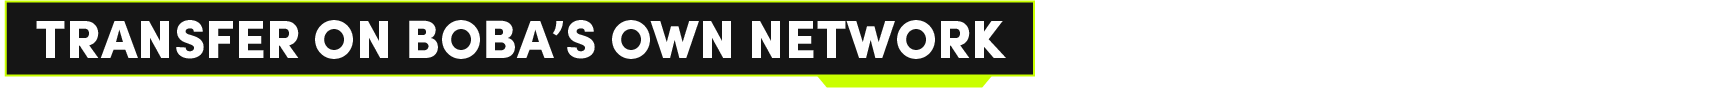
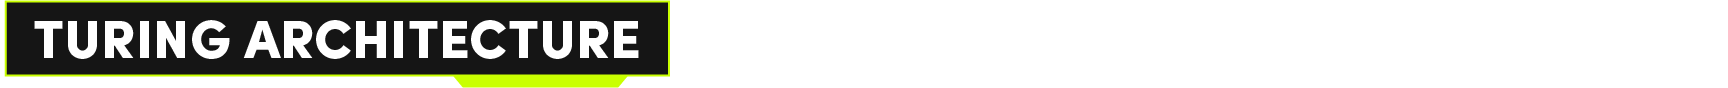
GITBOOK-210: No subject

Changed region(s): [[0.0312, 0.0, 0.625, 1.0]]

diff --git a/boba_documentation/hc/implementation.md b/boba_documentation/hc/implementation.md
@@ -2,6 +2,8 @@
 description: Learn how to use Turing hybrid compute
 ---
 
+# Implementation
+
 Hybrid Compute (formerly "Turing") is a system for interacting with the outside world from within solidity smart contracts. All data returned from external APIs, such as social networking or weather data are deposited into a public data-storage contract on Ethereum Mainnet. This extra data allows replicas, verifiers, and fraud-detectors to reproduce and validate the Boba L2 blockchain, block by block.
 
 Using Hybrid Compute is as easy as calling specific functions from inside your smart contract. For example, to obtain a random number for minting NFTs, call:
@@ -32,7 +34,11 @@ To obtain **Twitter** or **Spotify** data you could set up a system like this:
 
 ```
 
-## Feature Highlight 1: Using Turing to mint an NFT with 256 random attributes in a single transaction
+###
+
+<figure><img src="../../.gitbook/assets/Artboard 1 (3).png" alt=""><figcaption></figcaption></figure>
+
+### Feature Highlight 1: Using Turing to mint an NFT with 256 random attributes in a single transaction
 
 With Turing, your ERC721 contract can generate a cryptographically strong 256 bit random number immediately prior to the execution flow moving to the `mint` function. This is an _atomic_ transaction - everything takes places within one transaction:
 
@@ -83,15 +89,15 @@ Then, register and fund your Turing Credit account:
 
 ```
 
-**All done**! Each Turing request costs 0.01 BOBA, so 1 BOBA is enough for 100 Turing requests. Have fun. You can find [example code and an ERC721 that uses Turing here](./test/006_NFT_random.ts) and a [fully-featured Turing-ready NFT system here](../../boba_community/turing-monsters/README.md).
+**All done**! Each Turing request costs 0.01 BOBA, so 1 BOBA is enough for 100 Turing requests. Have fun. You can find [example code and an ERC721 that uses Turing here](test/006\_NFT\_random.ts) and a [fully-featured Turing-ready NFT system here](../../boba\_community/turing-monsters/).
 
-## Feature Highlight 2: Using Turing to access APIs from within your solidity smart contract
+### Feature Highlight 2: Using Turing to access APIs from within your solidity smart contract
 
 You can use Turing as a pipe to any other computer, such as APIs for social networks, weather and location data, or market data. Please keep in mind however that Turing differs sharply from established providers of market trading data, in particular, since **Turing does not provide a decentralized mechanism to verify the accuracy of the data**. **You should therefore not use Turing for production trading or lending use, but should use proven, decentralized data oracles**.
 
 **Data/Oracle best practices** Regardless of your specific use case, minimally, you will need to secure your pipe/contract against data outliers, temporary lack of data, and malicious attempts to distort the data. For example, you could average over multiple on-chain oracles and/or off-chain sources - in this case, the role of Turing could be to 'augment' or separately estimate the reliability and timeliness of on-chain oracles.
 
-**Note - Boba does not provide endpoints for you** You are responsible for setting up an endpoint that Turing can access - read on for more information and example code. Assume you have an API access key to a provider of weather data. First, set up a server or endpoint that queries this API, and stores and analyzes the data, if needed. Your own server/endpoint contains your secrets and API access keys. Next, add a simple interface to allow Turing to interact with your server. Turing calls to your server  contain the address of the calling contract and there are multiple ways to control access to your server in very granular manner, if desired. See `.packages/boba/turing/AWS_code/turing_oracle.py` for a copy-paste example for querying data APIs via a wrapper at AWS Lambda:
+**Note - Boba does not provide endpoints for you** You are responsible for setting up an endpoint that Turing can access - read on for more information and example code. Assume you have an API access key to a provider of weather data. First, set up a server or endpoint that queries this API, and stores and analyzes the data, if needed. Your own server/endpoint contains your secrets and API access keys. Next, add a simple interface to allow Turing to interact with your server. Turing calls to your server contain the address of the calling contract and there are multiple ways to control access to your server in very granular manner, if desired. See `.packages/boba/turing/AWS_code/turing_oracle.py` for a copy-paste example for querying data APIs via a wrapper at AWS Lambda:
 
 ```python
 /AWS_code/turing_oracle.py
@@ -120,20 +126,25 @@ You should lock down your off-chain endpoint to only accept queries from your sm
 
 ```
 
-## AWS and Google Cloud Function Examples
 
-Your external API will need to accept calls from the L2Geth and return data in a way that can be understood by the L2Geth. Examples are provided in `./packages/boba/turing/AWS_code`. Specific instructions for setting up AWS lambda endpoints are [here](./AWS_code/AWS_lambda_setup.md) - note that _all_ APIs can be used, not just AWS Lambda endpoints.
 
-## Important Properties of Hybrid Compute
+<figure><img src="../../.gitbook/assets/Artboard 2 (2).png" alt=""><figcaption></figcaption></figure>
+
+Your external API will need to accept calls from the L2Geth and return data in a way that can be understood by the L2Geth. Examples are provided in `./packages/boba/turing/AWS_code`. Specific instructions for setting up AWS lambda endpoints are [here](AWS\_code/AWS\_lambda\_setup.md) - note that _all_ APIs can be used, not just AWS Lambda endpoints.
+
+
+
+<figure><img src="../../.gitbook/assets/Artboard-3.png" alt=""><figcaption></figcaption></figure>
 
 * Only one Turing call per execution
 * There is **1200 ms timeout** on API responses. Please make sure that your API responds promptly. If you are using AWS, note that some of their services take several seconds to spin up from a 'coldstart', resulting in persistent failure of your first call to your endpoint.
 
-### One Turing call per Transaction
+#### One Turing call per Transaction
+
 At present, you can only have one Turing call per transaction, i.e. a Turing call cannot call other contracts that invoke Turing as well. Transactions that result in multiple Turing calls in the call stack will revert.
 
+#### TuringTxV2() - V2
 
-### TuringTxV2() - V2
 The new HybridCompute version allows endpoints to return more complex data structures or just larger payloads in general.
 
 * Maximum allowed length of the modified calldata is 65508 (selector + req + response).
@@ -168,14 +179,13 @@ bytes memory byteRes = turingHelper.TuringTxV2(_turingUri, encRequest);
 (string[] memory yourArray, string memory aStringVal, bytes memory someBytes) = abi.decode(byteRes, (string[], string, bytes));
 ```
 
+#### TuringTx() - V1
 
-### TuringTx() - V1
 The legacy version of Hybrid Compute had a smaller maximum response size, which didn't allow you to return larger or more complex payloads from an API such as arrays.
 
 * Strings returned from external endpoints in V1 are limited to 322 characters (`5*64+2=322`)
 
-
-#### String length limit
+**String length limit**
 
 The string length cap of 322 is large enough to return, for example, four `uint256` from the external api:
 
@@ -206,13 +216,17 @@ You can return anything you want - e.g. numbers, strings, ... - and this informa
 
 ```
 
-## Turing Architecture
+
+
+<figure><img src="../../.gitbook/assets/Artboard-4.png" alt=""><figcaption></figcaption></figure>
 
 The modified Turing L2Geth, `L2TGeth`, monitors calldata for particular Keccak methodIDs of functions such as `GetRandom(uint32 rType, uint256 _random)` and `GetResponse(uint32 rType, string memory _url, bytes memory _payload)`. Upon finding such methodIDs in the execution flow, at any level, L2TGeth parses the calldata for additional information, such as external URLs, and uses that information to either directly prepare a response (e.g. generate a random number) or to call an external API. After new information is generated (or has returned from the external API), L2TGeth then runs the function with updated inputs, such that the new information flows back to the caller (via overloaded variables and a system for conditionally bypassing `requires`). Put simply, L2TGeth intercepts function calls, adds new information to the inputs, and then runs the function with the updated inputs.
 
 In general, this system would lead to disagreement about the correct state of the underlying blockchain. For example, if replicas and verifiers simply ingested the transactions and re-executed them, then every blockchain would differ, destroying the entire system. Thus, a new data field called `Turing` (aka `turing`, `l1Turing` or `L1Turing` depending on context) has been added to the L2Geth `transactions`,`messages`, `receipts`, `blocks`, `evm.contexts`, and various `codecs` and `encoders/decoders`. This new data field is understood by `core-utils` as well as the `data-translation-layer` and the `batch-submitter`, and allows Turing data to be pushed into, and recovered from, the `CanonicalTransactionChain` (CTC). This extra information allows all verifiers and replicas to enter a new **replay** mode, where instead of generating new random numbers (or calling off-chain for new data), they use the Turing data stored in the CTC (or in the L2 blocks as part of the transaction metadata) to generate a faithful copy of the main Boba L2 blockchain. Thus, the overall system works as before, with all the information needed for restoring the Boba L2 and, just as critically, for public fraud detection, being publicly deposited into Ethereum.
 
-## Quickstart for Turing Developers
+
+
+<figure><img src="../../.gitbook/assets/Artboard-5.png" alt=""><figcaption></figcaption></figure>
 
 Open a terminal window and from the top level:
 
@@ -319,9 +333,11 @@ $ hardhat --network boba_local test
 ✨  Done in 6.67s.
 ```
 
-## Technical Appendix: Implementation Details
 
-### Step 1: Invoking Turing for inside a Smart contract
+
+<figure><img src="../../.gitbook/assets/Artboard 6 (1).png" alt=""><figcaption></figcaption></figure>
+
+#### Step 1: Invoking Turing for inside a Smart contract
 
 A Turing cycle starts with specific function calls inside solidity smart contracts deployed on Boba:
 
@@ -551,7 +567,7 @@ func bobaTuringCall(input []byte, caller common.Address) hexutil.Bytes {
 
 ```
 
-### Step 2: Flow of Turing data out of the evm.context
+#### Step 2: Flow of Turing data out of the evm.context
 
 `l2geth/core/state_processor.go:core.ApplyTransaction` moves the Turing data from `Context.Turing` into the `transaction.meta.L1Turing` byte array:
 
@@ -592,7 +608,7 @@ func (w *worker) commit(uncles []*types.Header, interval func(), start time.Time
 
 At this point, the data are circulated to various places throughout the system as part of the block/transaction data. Notably, calls to the L2 for block/transaction data now return a new field, `l1Turing` to all callers.
 
-### Step 3: Batch submitter Turing data injection
+#### Step 3: Batch submitter Turing data injection
 
 The batch submitter receives an new block/transaction from `L2TGeth`, obtains the raw call string (`rawTransaction`) and the Turing data (`l1Turing`), and if there was a Turing event (as judged from the length of the Turing string), the modified `batch-submitter` appends those data to the `rawTransaction` string. From the perspective of the CTC, it is receiving its normal batch payload.
 
@@ -627,11 +643,11 @@ private async _getL2BatchElement(blockNumber: number): Promise<BatchElement> {
 
 ```
 
-### Step 4: Writing to the CTC
+#### Step 4: Writing to the CTC
 
 The batch-submitter writes the data to the CTC as usual. **The CTC does not know about Turing** - that was one of the goals, so we do not have to modify the L1 contracts.
 
-### Step 5: DTL Turing data extraction; Reading from the CTC
+#### Step 5: DTL Turing data extraction; Reading from the CTC
 
 The DTL reads from the CTC and unpacks the modified `rawTransaction` (which is now called `sequencerTransaction`). The DTL uses a Turing length metadata field in the `sequencerTransaction` string. Critically, the DTL writes a slightly modified `TransactionEntry` into its database, which has a new field called `turing`. When the database is queried, it thus returns the Turing data in addition to all the usual fields.
 
@@ -674,7 +690,7 @@ The DTL reads from the CTC and unpacks the modified `rawTransaction` (which is n
 
 ```
 
-### Step 6: Verifier data ingestion
+#### Step 6: Verifier data ingestion
 
 The Verifier receives all the usual data from the DTL, but, if there was a Turing call, there is now an additional data field containing the rewritten callData as a HexString. The Turing data are obtained from incoming `json` data and are written into the transaction metadata, `meta.L1Turing = turing`:
 

diff --git a/boba_documentation/developer/hybrid_compute.md b/boba_documentation/developer/hybrid_compute.md
@@ -8,33 +8,22 @@ Hybrid Compute is a system for interacting with the outside world from within so
 
 Hybrid Compute is a **pipe** between (**1**) Boba's Geth (aka sequencer), which takes transactions, advances the state, and forms blocks, and (**2**) your server. To use this pipe, all you need is a smart contract on Boba that makes Hybrid Compute calls and an external server that accepts these calls and returns data in a format that can be understood by the EVM. This is not hard to do and we provide many examples which will allow you to quickly build a working Hybrid Compute system.
 
-
-
 <figure><img src="../../.gitbook/assets/Artboard 1.png" alt=""><figcaption></figcaption></figure>
 
 A typical Hybrid Compute system for gaming or Web3 social networking<>blockchain interoperability has four parts:
 
-1. A contract that uses Hybrid Compute, such as by calling `bytes memory encResponse = myHelper.TuringTxV2(serverURL, encRequest);`
-In some places you may find `myHelper.TuringTx(...)` which is just the previous version (still working) that doesn't support more complex return values such as arrays.
-
+1. A contract that uses Hybrid Compute, such as by calling `bytes memory encResponse = myHelper.TuringTxV2(serverURL, encRequest);` In some places you may find `myHelper.TuringTx(...)` which is just the previous version (still working) that doesn't support more complex return values such as arrays.
 2. A second contract, the `TuringHelper`, which serves as your standardized door to Hybrid Compute (formerly "Turing").
-
 3. Some BOBA. Each Hybrid Compute call costs 0.01 BOBA, equivalent to about 1 cent at the moment. This fee covers the cost of writing all input calldata and responses from your servers to Ethereum Mainnet.
 4. A server which accepts POST requests from Boba's Geth and returns data to it in the right format.
 
-
-
-<figure><img src="../../.gitbook/assets/Artboard 2 (2).png" alt=""><figcaption></figcaption></figure>
+<figure><img src="../../.gitbook/assets/Artboard 2 (1).png" alt=""><figcaption></figcaption></figure>
 
 Hybrid Compute is a general purpose pipe between computers and this pipe does not have a native feature set (e.g. storage, cron jobs, cryptographic operations, gaming engines, blockchain history lookups, ...). Rather, _it's up to you_ to deploy servers or endpoints to perform those functions and then expose the right functionality/data to external callers. For many situations, serverless endpoints such as AWS Lambda or Google Cloud Services allow you to build complex logic in just a few lines of code, so if you have not done that before, it's surprisingly easy and we provide many examples for you to use and copy.
 
-
-
-<figure><img src="../../.gitbook/assets/Artboard 3 (3).png" alt=""><figcaption></figcaption></figure>
+<figure><img src="../../.gitbook/assets/Artboard 3.png" alt=""><figcaption></figcaption></figure>
 
 Hybrid Compute is general-purpose pipe between computers and not an Oracle. Decentralized Oracles were invented to solve a very specific problem, which is _decentralized trustless approximation of the truth_ (e.g. temperature in NYC, the price of BTC/USD, ...) for later consumption on-chain (e.g. by a DEX or lending protocol). A pipe between computers such as Hybrid Compute has no direct bearing on questions of data authenticity, timeliness, and trust, but rather, those must be tackled by the smart contract deployer and data provider(s) in whatever way is most suitable to their specific use case, industry, and application. To reiterate, Hybrid Compute is a pipe, not an Oracle.
-
-
 
 <figure><img src="../../.gitbook/assets/Artboard 4 (3).png" alt=""><figcaption></figcaption></figure>
 
@@ -42,21 +31,15 @@ On chain Oracles typically operate in a **push** manner, meaning that they updat
 
 A system like Hybrid Compute is typically configured in the opposite manner, as a **pull** system, where nothing happens until a smart contract needs data or compute. In that case, the external API services the Hybrid Compute call `just in time` during the EVM execution flow. This means that systems that use Hybrid Compute have zero baseline gas consumption and provide compute or data only when needed.
 
-
-
-<figure><img src="../../.gitbook/assets/Artboard 5.png" alt=""><figcaption></figcaption></figure>
+<figure><img src="../../.gitbook/assets/Artboard 5 (2).png" alt=""><figcaption></figcaption></figure>
 
 Hybrid Compute is invoked when needed during the normal EVM execution flow, and therefore, transactions are atomic. Notably, computations later in the EVM execution flow can operate on responses from your off-chain servers all in one transaction.
-
-
 
 <figure><img src="../../.gitbook/assets/Artboard 6 (2).png" alt=""><figcaption></figcaption></figure>
 
 As noted, Hybrid Compute is not an Oracle. However, Hybrid Compute writes all initial calldata and server responses to Ethereum Mainnet, and therefore, external parties can see those inputs and outputs. In theory, this many allow third parties to detect fraud or even challenge Hybrid Compute calls, but such functionality remains to be developed.
 
-
-
-<figure><img src="../../.gitbook/assets/Artboard 7 (1).png" alt=""><figcaption></figcaption></figure>
+<figure><img src="../../.gitbook/assets/Artboard 7.png" alt=""><figcaption></figcaption></figure>
 
 Since developers (i.e. **you**) control all of their keys and Hybrid Compute is just a pipe, there are no special security considerations when using Hybrid Compute. Notably - _we do not provide data or compute endpoints for you to query_ - you have to build, secure, and run those.
 
@@ -67,9 +50,7 @@ Hybrid Compute has two security/control features:
 
 The first mechanism prevents unauthorized use of your on-chain resources and the second one prevents unauthorized use of off-chain resources.
 
-
-
-<figure><img src="../../.gitbook/assets/Artboard 8.png" alt=""><figcaption></figcaption></figure>
+<figure><img src="../../.gitbook/assets/Artboard 8 (1).png" alt=""><figcaption></figcaption></figure>
 
 Here are five fully worked out examples for you to build on:
 

diff --git a/boba_documentation/user/001_how-to-bridge.md b/boba_documentation/user/001_how-to-bridge.md
@@ -6,15 +6,15 @@ description: Setup a wallet, buy & transfer cryptocurrencies, use the different 
 
 [https://gateway.boba.network/](https://gateway.boba.network)
 
-<figure><img src="../../.gitbook/assets/Artboard 1 (2).png" alt=""><figcaption></figcaption></figure>
+<figure><img src="../../.gitbook/assets/Artboard 1 (1).png" alt=""><figcaption></figcaption></figure>
 
 {% embed url="https://drive.google.com/file/d/1ybrKdXxlRNrZOkPO4fLc9bWQ56gRZXfQ/view?usp=sharing" %}
 
-<figure><img src="../../.gitbook/assets/Artboard 2 (1).png" alt=""><figcaption></figcaption></figure>
+<figure><img src="../../.gitbook/assets/Artboard 2 (3).png" alt=""><figcaption></figcaption></figure>
 
 {% embed url="https://drive.google.com/file/d/1TxuP6myVAhtPsEQ0wfmS2HdI0E9rjT3b/view" %}
 
-<figure><img src="../../.gitbook/assets/Artboard 3.png" alt=""><figcaption></figcaption></figure>
+<figure><img src="../../.gitbook/assets/Artboard 3 (3).png" alt=""><figcaption></figcaption></figure>
 
 **Before getting started, make sure you have enough ETH in your Metamask wallet to approve and send transactions (we recommend 0.05 ETH).**
 
@@ -24,11 +24,11 @@ description: Setup a wallet, buy & transfer cryptocurrencies, use the different 
 
 {% embed url="https://drive.google.com/file/d/1Lf-X1xwP9M-ZZM6HiQ1qRhV-0yaBKitA/view?usp=share_link" %}
 
-<figure><img src="../../.gitbook/assets/Artboard 4 (2).png" alt=""><figcaption></figcaption></figure>
+<figure><img src="../../.gitbook/assets/Artboard 4.png" alt=""><figcaption></figcaption></figure>
 
 {% embed url="https://drive.google.com/file/d/1IyXQNTFLEfJ7Sfyqh7iqMM6tWis26Jg3/view?usp=share_link" %}
 
-<figure><img src="../../.gitbook/assets/Artboard 5 (2).png" alt=""><figcaption></figcaption></figure>
+<figure><img src="../../.gitbook/assets/Artboard 5 (3).png" alt=""><figcaption></figcaption></figure>
 
 {% embed url="https://drive.google.com/file/d/1TSyk7T_-TqhXywcbeO41dJZgCsrPIzGq/view?usp=share_link" %}
 
@@ -36,10 +36,10 @@ description: Setup a wallet, buy & transfer cryptocurrencies, use the different 
 
 {% embed url="https://drive.google.com/file/d/1HeHlr9FsBAQwW5YE0ho8g_GygRWWI9jU/view?usp=share_link" %}
 
-<figure><img src="../../.gitbook/assets/Artboard 7 (2).png" alt=""><figcaption></figcaption></figure>
+<figure><img src="../../.gitbook/assets/Artboard 7 (1).png" alt=""><figcaption></figcaption></figure>
 
 {% embed url="https://drive.google.com/file/d/1KxHc3ymjErviLBV1bASzzHs8xsLMIDcd/view?usp=share_link" %}
 
-<figure><img src="../../.gitbook/assets/Artboard 8 (1).png" alt=""><figcaption></figcaption></figure>
+<figure><img src="../../.gitbook/assets/Artboard 8.png" alt=""><figcaption></figcaption></figure>
 
 {% embed url="https://drive.google.com/file/d/1GHMpC0h_BwEpW-BlgQG5JMHvsLG58bgH/view?usp=sharing" %}

diff --git a/faq.md b/faq.md
@@ -4,7 +4,7 @@ description: Frequently asked questions
 
 # FAQ
 
-<figure><img src=".gitbook/assets/Artboard 1 (1).png" alt=""><figcaption></figcaption></figure>
+<figure><img src=".gitbook/assets/Artboard 1 (2).png" alt=""><figcaption></figcaption></figure>
 
 [Boba](https://boba.network) is a compute-focused L2. Fundamentally, Ethereum is a distributed computer. We believe that L2s can play a unique role in augmenting the base _compute_ capabilities of the Ethereum ecosystem. You can learn more about Turing hybrid compute [here](broken-reference).
 
@@ -143,7 +143,7 @@ Unfortunately no, not at the moment.
 
 See Q2 of Transactions
 
-<figure><img src=".gitbook/assets/Artboard 4.png" alt=""><figcaption></figcaption></figure>
+<figure><img src=".gitbook/assets/Artboard 4 (4).png" alt=""><figcaption></figcaption></figure>
 
 #### Q1: Does Boba Network Have a Testnet/How Do I Get Testnet Boba or Eth?
 
@@ -193,7 +193,7 @@ Please be sure to attach logs of output of `docker-compose logs` and integration
 
 We have the graph node on Ethereum Mainnet L2 and Rinkeby L2. The Rinkeby graph node is public. The Mainnet graph node is hosted by The Graph team.
 
-<figure><img src=".gitbook/assets/Artboard 5 (1) (1).png" alt=""><figcaption></figcaption></figure>
+<figure><img src=".gitbook/assets/Artboard 5 (1).png" alt=""><figcaption></figcaption></figure>
 
 #### Q1: Why Isn’t My Transaction Going Through?
 
@@ -248,7 +248,7 @@ Actually, there are multiple bridges available. You can check it out on our ecos
 
 [Simply follow this link](https://gateway.boba.network/) and navigate to the Ecosystem tab.
 
-<figure><img src=".gitbook/assets/Artboard 6 (1).png" alt=""><figcaption></figcaption></figure>
+<figure><img src=".gitbook/assets/Artboard 6 (1) (1).png" alt=""><figcaption></figcaption></figure>
 
 #### Q1: What Are the Limits on Hybrid Compute Web2 Calls?
 

diff --git a/README.md b/README.md
@@ -106,7 +106,7 @@ If the command returns with no log output, the sequencer is up. Once the sequenc
 
 When the command returns with `Pass: Found L2 Liquidity Pool contract address`, the entire Boba stack has come up correctly.
 
-<figure><img src=".gitbook/assets/Artboard 5 (1).png" alt=""><figcaption></figcaption></figure>
+<figure><img src=".gitbook/assets/Artboard 5.png" alt=""><figcaption></figcaption></figure>
 
 * _Running out of space on your Docker, or having other having hard to debug issues_? Try running `docker system prune -a --volumes` and then rebuild the images.
 * _To (re)build individual base services_: `docker-compose build -- l2geth`
@@ -121,7 +121,7 @@ cd packages/package-to-test
 yarn test
 ```
 
-<figure><img src=".gitbook/assets/Artboard 7.png" alt=""><figcaption></figcaption></figure>
+<figure><img src=".gitbook/assets/Artboard 7 (2).png" alt=""><figcaption></figcaption></figure>
 
 Make sure you are in the `ops` folder and then run
 
